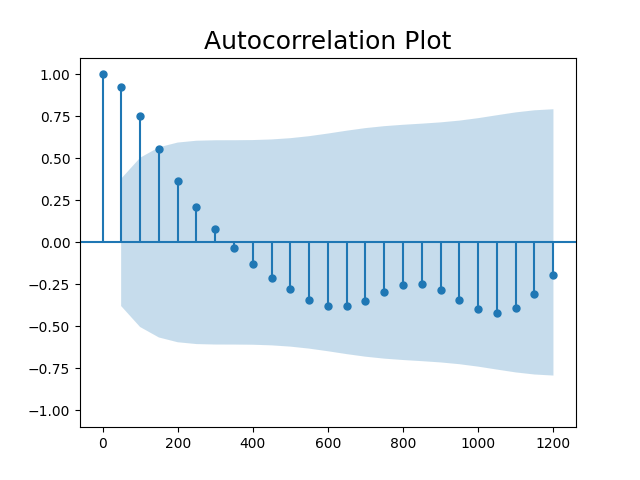
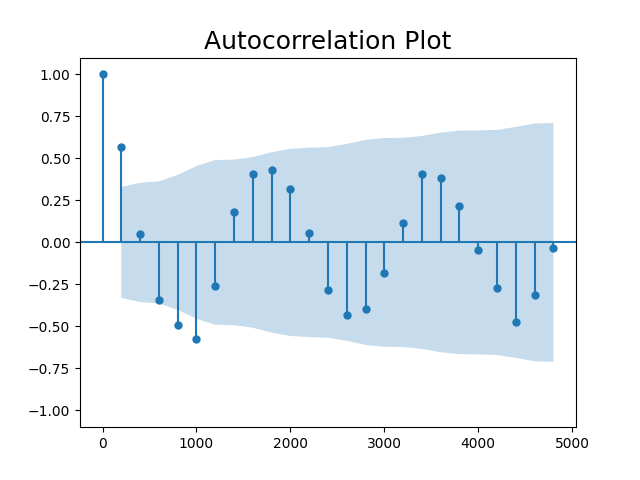
Fixed make_3d_plots, tested results on Lorenz and Thomas attractor

diff --git a/src/create_dummy_time_series.py b/src/create_dummy_time_series.py
@@ -73,17 +73,30 @@ def simulate_additive_white_noise(delta_t = 2e-5, t_max = 100, noise = 0.05):
         timer += delta_t
     return trajectory
 
-def plot_dynamical_system(name = "Lorenz", var = 0):
-    #TODO Add variables to above function call
+def plot_dynamical_system(name = "Lorenz", which_var = 0,
+                          delta_t = 2e-5, t_max = 1000, noise = 0.05,
+                          tube_radius = 0.1, colors = "PuRd"):
+    """
+    Function that executes all plotting consecutively.
+    :param name: determines which dynamical system is simulated.
+    :param which_var: determines which variable of the system is plotted.
+    :param delta_t: time steps of the system integration.
+    :param t_max: how long the simulation runs.
+    :param noise: determines how much noise is added to the trajectory.
+    :param tube_radius: tube thickness in the 3D plot.
+    :param colors: colors in the 3D plot.
+    """
     if(name == "Lorenz"):
-        trajectory = simulate_lorenz(vec0=np.array([1, 2, 3]), t_max=5000, noise=0.005)
-        time_series = trajectory[:, var]
-        plot_3D(trajectory[:,0], trajectory[:,1], trajectory[:,2], filename="lorenz")
+        trajectory = simulate_lorenz(vec0=np.array([1, 2, 3]), delta_t=delta_t, t_max=t_max, noise=noise)
+        time_series = trajectory[:, which_var]
+        make_3d_plot(trajectory[:,0], trajectory[:,1], trajectory[:,2],
+                     filename="lorenz", tube_radius=tube_radius, colors=colors)
 
     elif(name == "Thomas"):
-        trajectory = simulate_thomas(vec0=np.array([1, 2, 3]), t_max=2500, noise=0.005)
-        time_series = trajectory[:, var]
-        plot_3D(trajectory[:, 0], trajectory[:, 1], trajectory[:, 2], filename="thomas")
+        trajectory = simulate_thomas(vec0=np.array([1, 2, 3]), delta_t=delta_t, t_max=t_max, noise=noise)
+        time_series = trajectory[:, which_var]
+        make_3d_plot(trajectory[:, 0], trajectory[:, 1], trajectory[:, 2],
+                     filename="thomas", tube_radius=tube_radius, colors=colors)
 
     else:
         time_series = simulate_additive_white_noise(delta_t=2e-3, t_max=4, noise=0.1)
@@ -95,6 +108,6 @@ def plot_dynamical_system(name = "Lorenz", var = 0):
     plot_partial_autocorrelation(time_series, filename=name)
 
 if __name__ == "__main__":
-    plot_dynamical_system("Lorenz")
-    plot_dynamical_system("Thomas")
-    plot_dynamical_system()
+    #plot_dynamical_system("Lorenz")
+    plot_dynamical_system("Thomas", t_max = 20000, tube_radius=0.025, noise = 0, colors = 'GnBu')
+    #plot_dynamical_system()

diff --git a/src/time_series_plots.py b/src/time_series_plots.py
@@ -106,8 +106,7 @@ def plot_partial_autocorrelation(time_series, filename = ""):
 
     plt.show()
 
-#TODO
-def make_3d_plot(x, y, z, filename = ""):
+def make_3d_plot(x, y, z, filename = "", tube_radius = 0.1, colors = "PuRd"):
     """
     Creates (and saves) a 3D plot of time series of variables x, y and z.
     :param x: time series (array) of variable x
@@ -115,41 +114,18 @@ def make_3d_plot(x, y, z, filename = ""):
     :param z: time series (array) of variable z
     :param filename: if filename if given, the plot will be saved under this name.
     """
+    times = np.arange(0,len(x)) # for colormap of trajectory
 
-    # Attach 3d axis to figure
-    #fig = plt.figure()
-    #ax = fig.add_subplot(projection = "3d")
-
-    #for i in range(len(x)):
-    #    ax.plot(x, y, z, color = cmap_colors[i])
-
-    #ax.set_xlabel = ("x")
-    #ax.set_ylabel = ("y")
-    #ax.set_zlabel = ("z")
-
-    times = np.arange(0,len(x))
-
-    plot = mlab.plot3d(x, y, z, times, tube_radius = 0.025, colormap = 'Spectral')
+    mlab.figure(bgcolor=(0,0,0)) # set black background
+    mlab.plot3d(x, y, z, times, tube_radius = tube_radius, colormap = colors)
 
     # save plot iff filename is provided
     if filename != "":
-        plt.savefig("../results/figures/plot_3D_" + filename)
+        mlab.savefig("../results/figures/plot_3D_" + filename + ".png")
 
-    return plot
+    mlab.show()
 
-if __name__ == "__main__":
-    # Create a toy time series using the sine function
-    #time_points = np.linspace(0, 4 * np.pi, 1000)
-    #time_series_x = np.sin(time_points)
-
-    #plot_3D(time_series_x, time_series_x, time_series_x)
-
-    # Make plots (time series, recurrence and ACP)
-    #plot_time_series(time_series_x, filename="sin")
-    #plot_recurrence(time_series_x, delay = 1.575, eps = np.pi/18, filename = "sin")
-    #plot_autocorrelation(time_series_x, filename="sin")
-    #plot_partial_autocorrelation(time_series_x)
-
+def example_mayavi():
     n_mer, n_long = 6, 11
     dphi = np.pi / 1000.0
     phi = np.arange(0.0, 2 * np.pi + 0.5 * dphi, dphi)
@@ -160,5 +136,12 @@ if __name__ == "__main__":
 
     mlab.plot3d(x_, y_, z_, np.sin(mu), tube_radius=0.025, colormap='Spectral')
     mlab.show()
+
+if __name__ == "__main__":
+
+    example_mayavi()
+
+
+
 
     
